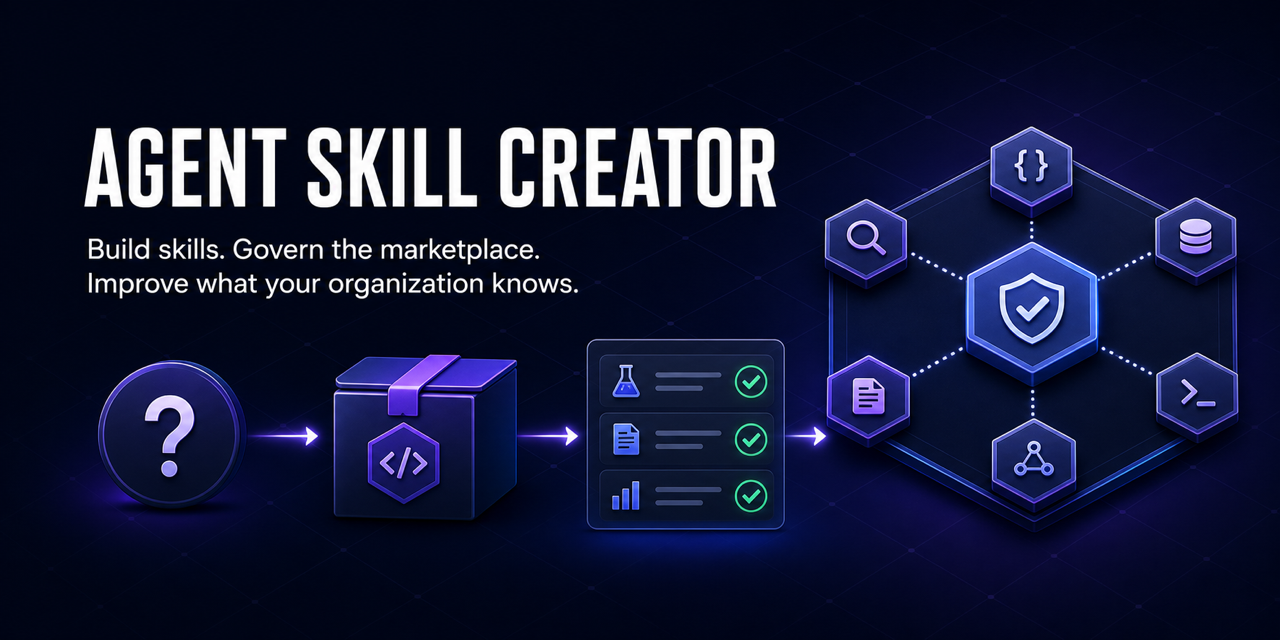
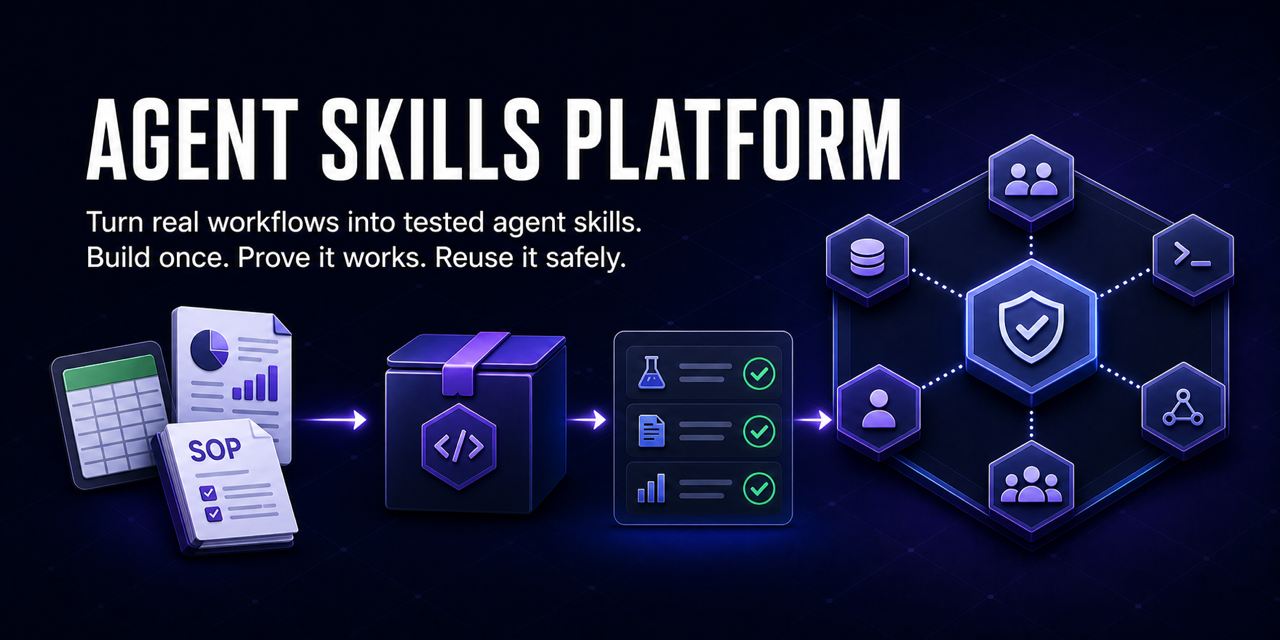
Refresh outcome-first project messaging

Changed region(s): [[0.0312, 0.1562, 0.9688, 0.875]]

diff --git a/docs/index.html b/docs/index.html
@@ -3,10 +3,10 @@
 <head>
 <meta charset="utf-8">
 <meta name="viewport" content="width=device-width, initial-scale=1">
-<title>Agent Skills Platform — the governed platform for agent skills</title>
-<meta name="description" content="Turn human expertise and approved business meaning into tested agent skills, then govern their complete lifecycle through a user-defined marketplace.">
-<meta property="og:title" content="agent-skills-platform">
-<meta property="og:description" content="Build, verify, and distribute trusted agent skills with source contracts, evals, and governed marketplaces.">
+<title>Agent Skills Platform — turn workflows into trusted agent skills</title>
+<meta name="description" content="Turn a real workflow into a tested, installable agent skill—then publish it safely to your team.">
+<meta property="og:title" content="Turn workflows into trusted agent skills">
+<meta property="og:description" content="Build once, prove it works, and distribute it safely across your team's agent tools.">
 <meta property="og:image" content="https://francyjglisboa.github.io/agent-skills-platform/assets/agent-skills-platform-social-preview.png">
 <link rel="preconnect" href="https://fonts.googleapis.com">
 <link rel="preconnect" href="https://fonts.gstatic.com" crossorigin>
@@ -21,9 +21,9 @@
   <div class="nav__inner">
     <a class="nav__brand" href="#top">agent-skills-platform</a>
     <nav class="nav__center" aria-label="Page sections">
-      <a href="#journey">How it works</a>
-      <a href="#start">Install</a>
-      <a href="#control-plane">Control plane</a>
+      <a href="#paths">Choose a path</a>
+      <a href="#example">See proof</a>
+      <a href="#start">Try it</a>
       <a href="#trust">Trust</a>
     </nav>
     <a class="button button--small" href="https://github.com/FrancyJGLisboa/agent-skills-platform">GitHub&nbsp;★</a>
@@ -33,15 +33,13 @@
 <main id="main">
   <section class="hero" id="top">
     <div class="hero__copy">
-      <p class="eyebrow">Governed platform for agent skills</p>
-      <h1>Build, verify, and distribute portable agent skills from real workflows.</h1>
-      <p class="hero__lede">Give it a sentence, spreadsheet, PDF, link, screenshot, or
-      half-working script. It reconstructs the question, trigger, decision, evidence,
-      and success measure; captures human-approved meaning when the answer depends on
-      organizational definitions; builds and verifies the skill; then governs how teams
-      publish, discover, install, update, roll back, and quarantine it.</p>
+      <p class="eyebrow">From repeated work to a trusted skill</p>
+      <h1>Turn a real workflow into a tested, installable agent skill.</h1>
+      <p class="hero__lede">Bring the spreadsheet, report, SOP, link, screenshot, or script
+      you already use. The platform turns it into a reusable workflow your team can inspect,
+      verify, install, and improve.</p>
       <div class="product-loop" aria-labelledby="product-loop-title">
-        <p class="product-loop__label" id="product-loop-title">From work to reliable automation</p>
+        <p class="product-loop__label" id="product-loop-title">Build it once. Prove it works. Reuse it safely.</p>
         <ol>
           <li>Workflow evidence</li>
           <li>Proposed skill</li>
@@ -53,8 +51,8 @@
         </ol>
       </div>
       <div class="hero__actions">
-        <a class="button" href="#start">Create your first skill</a>
-      <a class="text-link" href="#journey">See the five steps</a>
+        <a class="button" href="#start">Turn a workflow into a skill</a>
+      <a class="text-link" href="#example">See a verified example</a>
       </div>
     </div>
 
@@ -79,7 +77,16 @@
     <div><b>MIT</b><span>open source</span></div>
   </section>
 
-  <section class="definition" aria-labelledby="definition-title">
+  <section class="section" id="paths">
+    <header class="section__head"><p class="eyebrow">Start where you are</p><h2>One platform, three clear paths</h2><p>Pick the outcome you need—not an implementation detail.</p></header>
+    <ol class="journey">
+      <li><span>01</span><h3>I have a workflow</h3><p>Turn examples of real work into a tested skill without writing a technical specification.</p><small><a href="#start">Create your first skill</a></small></li>
+      <li><span>02</span><h3>I run an AI team</h3><p>Review, approve, publish, update, roll back, and quarantine skills through a governed marketplace.</p><small><a href="#control-plane">Run a marketplace</a></small></li>
+      <li><span>03</span><h3>I need evidence</h3><p>Inspect validation, security, evaluation, and representative-run evidence before you depend on a skill.</p><small><a href="#trust">Review trust boundaries</a></small></li>
+    </ol>
+  </section>
+
+  <section class="definition" id="example" aria-labelledby="definition-title">
     <p class="eyebrow">What is an Agent Skill?</p>
     <h2 id="definition-title">A workflow package for reaching a verified outcome</h2>
     <p>An Agent Skill is a reusable workflow package that guides an agent from a
@@ -101,7 +108,7 @@
   <section class="section" id="journey">
     <header class="section__head">
       <p class="eyebrow">The whole process</p>
-      <h2>Five steps you can follow</h2>
+      <h2>What happens after you bring the work</h2>
       <p>The engineering stays available for inspection. It does not become homework.</p>
     </header>
 

diff --git a/README.md b/README.md
@@ -1,6 +1,6 @@
 # Agent Skills Platform
 
-**The governed platform for building, verifying, and distributing agent skills.**
+**Turn a real workflow into a tested, installable agent skill—then publish it safely to your team.**
 
 ![Agent Skills Platform: question to tested skill to governed marketplace](docs/assets/agent-skills-platform-social-preview.png)
 
@@ -19,7 +19,19 @@
 Agent Skills Platform turns the way people already work into tested, installable agent
 skills. Give it a prompt plus the evidence behind the work—spreadsheets, reports,
 emails, screenshots, transcripts, links, or scripts—and it builds a reusable workflow
-that an organization can review, publish, and improve.
+that a person can inspect, an organization can review, and a team can safely reuse.
+
+```text
+/agent-skills-platform
+
+Turn my monthly revenue-variance review into a reusable internal skill.
+I attached past reports and the source spreadsheets. The decision is whether to
+escalate a material variance. It must not modify source data.
+```
+
+The result is not just a prompt: it is an installable skill package with instructions,
+functional scripts when needed, evals, security checks, a representative-run record,
+and a correction path for real-world learning.
 
 After release, a skill can retain maintenance evidence without turning every log
 into runtime prompt context: classified run evidence is captured in `raw/`, recurring
@@ -29,7 +41,9 @@ record, not autonomous self-modification.
 
 ## Create your first skill
 
-### I have expertise to turn into a skill — no code required
+Choose the path that matches what you need today.
+
+### I have a workflow — no code required
 
 Open the AI agent you already use, attach examples of the work, and paste this:
 
@@ -90,6 +104,13 @@ Colleagues install an approved version and use it
 The SME owns business meaning. The marketplace operator owns distribution and policy.
 See [roles and handoffs](docs/TEAM_MARKETPLACE.md#roles-and-handoffs).
 
+## See a verified result
+
+The repository includes a live, read-only weather briefing example with a source-linked
+result and verification evidence. Start with the
+[verification record](docs/verification/2026-08-27-live-weather-briefing.md), then
+inspect the [skill package](references/examples/live-weather-briefing-skill).
+
 ## Read more when needed
 
 | Need | Read |
@@ -100,8 +121,6 @@ See [roles and handoffs](docs/TEAM_MARKETPLACE.md#roles-and-handoffs).
 | Understand scope and product boundaries | [Product scope](docs/PRODUCT_SCOPE.md) |
 | Review architecture, validation, and technical controls | [Technical overview](docs/TECHNICAL_OVERVIEW.md) |
 | Contribute | [Contributing](CONTRIBUTING.md) |
-
-## Contributing
 
 ## What happens behind the scenes
 
